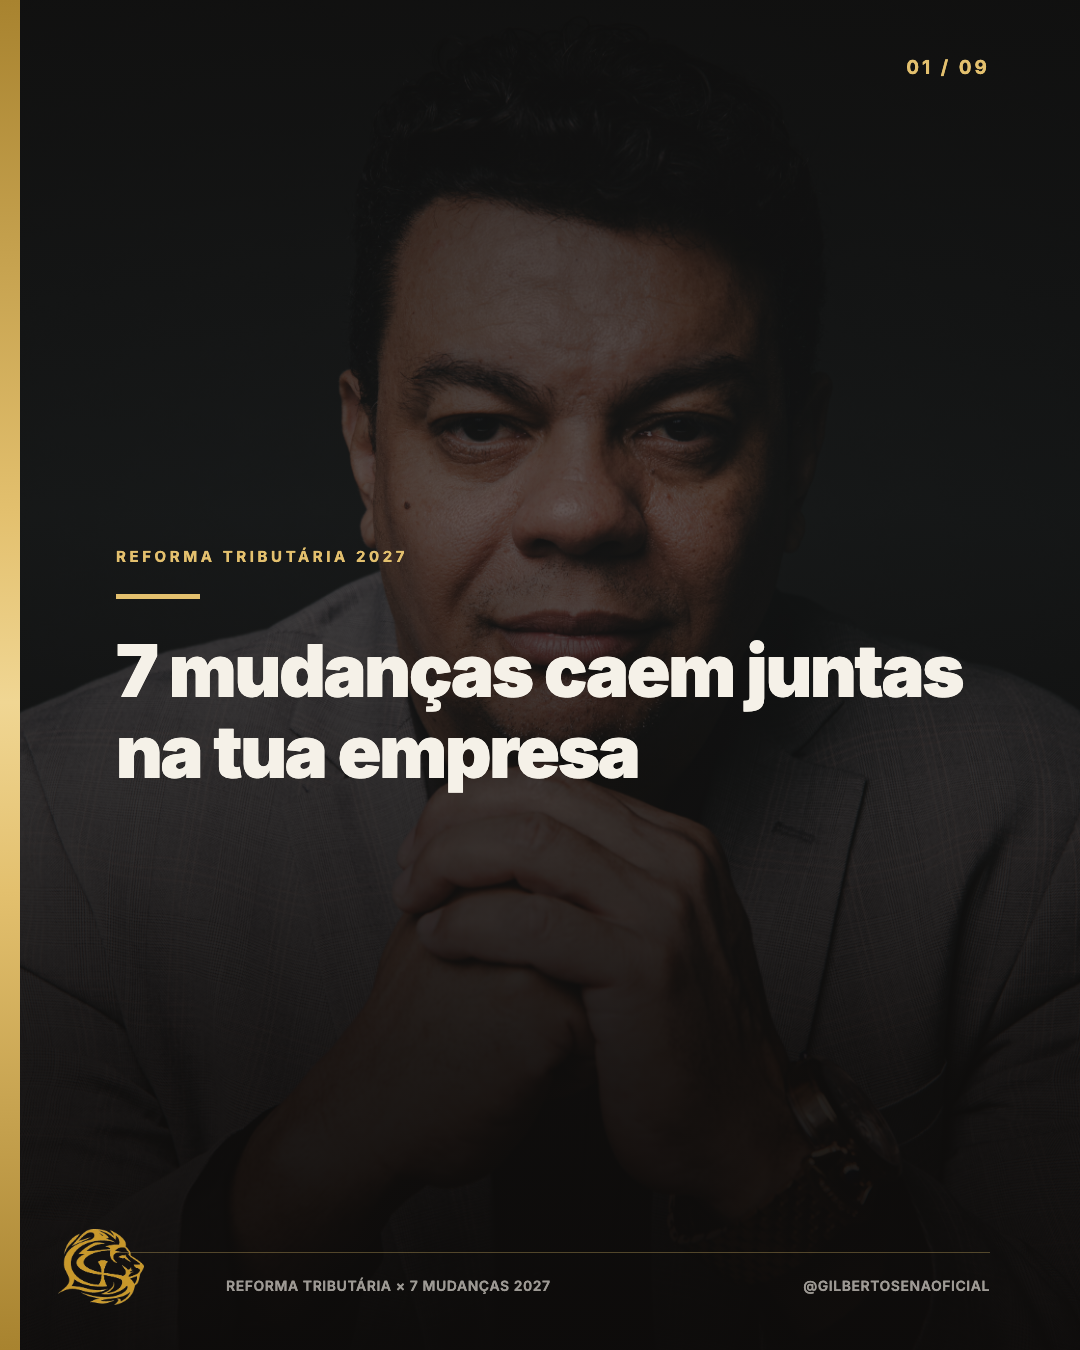
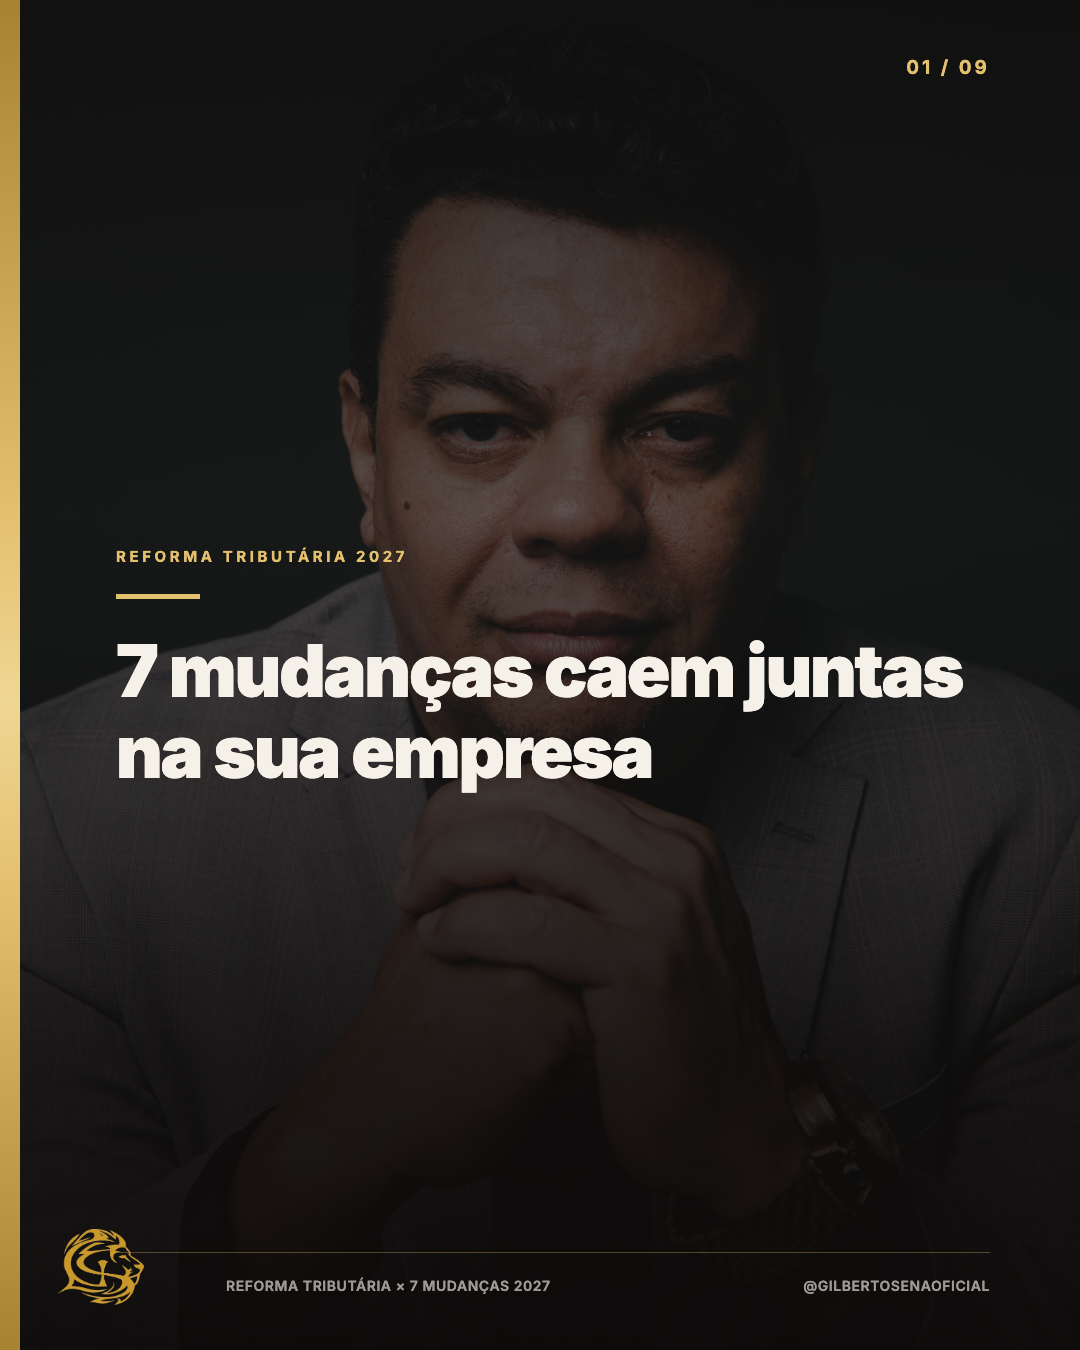
Reels pras 18h, plano de 2 carrosseis por dia e o primeiro agendado

Changed region(s): [[0.1833, 0.5289, 0.6111, 0.5911]]

diff --git a/saidas/CARROSSEIS/carrossel-7-mudancas-2027-2026-08-31/carrossel.html b/saidas/CARROSSEIS/carrossel-7-mudancas-2027-2026-08-31/carrossel.html
@@ -140,7 +140,7 @@
   </div>
   <div class="kicker">REFORMA TRIBUTÁRIA 2027</div>
   <div class="rule"></div>
-  <div class="capa-title">7 mudanças caem juntas na tua empresa</div>
+  <div class="capa-title">7 mudanças caem juntas na sua empresa</div>
   <div class="footer"><span>REFORMA TRIBUTÁRIA × 7 MUDANÇAS 2027</span><span>@GILBERTOSENAOFICIAL</span></div>
 </div>
 

diff --git a/saidas/CARROSSEIS/_PLANO-DA-FILA.md b/saidas/CARROSSEIS/_PLANO-DA-FILA.md
@@ -1,21 +1,33 @@
-# Plano: os carrosséis na fila
+# Os 42 carrosséis na fila
 
-Três por dia no Instagram, às **7h, 15h e 18h** (Brasília), somando seis com
-o card das 9h e os dois reels de 12h e 20h. De 16 a 29 de outubro.
+Dois por dia no Instagram, **15h e 20h** (Brasília). De 16/10 a 05/11.
+Completa o dia de seis: 5h Provérbios, 9h frase, 12h reels, 15h carrossel,
+18h reels, 20h carrossel.
 
-| Dia | 7h · reforma | 15h · gestão | 18h · setor |
-|---|---|---|---|
-| 16/10 | 7-mudancas-2027-2026-08-31 | quem-e-gilberto-2026-10-06 | medicos-reforma-2026-08-27 |
-| 17/10 | simples-hibrido-2026-08-27 | dre-7-passos-2026-09-29 | transportadoras-reforma-2026-08-27 |
-| 18/10 | ipi-imposto-seletivo-2026-08-27 | ponto-de-equilibrio-2026-08-02 | comercio-reforma-2026-08-27 |
-| 19/10 | pf-autonomo-cbs-2026-08-27 | 12-pilares-business-plan-2026-08-03 | servicos-alerta-2026-08-27 |
-| 20/10 | simples-nacional-prazo-2026-09-22 | 5gs-gestao-financeira-2026-07-17 | odontologia-reforma-2026-08-27 |
-| 21/10 | redutor-ajuste-construcao-2026-08-30 | 5gs-gestao-tributaria-2026-07-17 | ecommerce-alerta-2026-08-27 |
-| 22/10 | imobiliario-aluguel-2026-08-30 | 5gs-gestao-de-si-2026-07-17 extraido | clinicas-esteticas-reforma-2026-08-27 |
-| 23/10 | revenda-carros-stj-2026-08-27 | 5gs-fornecedores-clientes-2026-10-06 | industria-reforma-2026-08-30 |
-| 24/10 | reforma-ebooks-2026-09-13 | 10-pergaminhos-maior-vendedor-2026-08-03 | textil-alerta-2026-08-27 |
-| 25/10 | dissolucao-sociedade-2026-08-10 | rede-de-mastermind-2026-08-09 | biomedicina-reforma-2026-08-27 |
-| 26/10 | reforma-infoprodutores-2026-09-13 | forjado-imersao-2026-08-07 | entregadores-app-reforma-2026-08-27 |
-| 27/10 | reforma-representante-comercial-2026-09-13 | 10-ebooks-leitura-2026-09-06 | tecnologia-saas-reforma-2026-08-30 |
-| 28/10 | reforma-ecommerce-2026-09-13 | agronegocio-reforma-2026-08-30 | saude-geral-reforma-2026-08-27 |
-| 29/10 | reforma-medicos-2026-09-13 | educacao-reforma-2026-08-30 | transportes-reforma-2026-08-27 |
+| Dia | 15h | 20h |
+|---|---|---|
+| 16/10 | 7-mudancas-2027-2026-08-31 | quem-e-gilberto-2026-10-06 |
+| 17/10 | simples-nacional-prazo-2026-09-22 | dre-7-passos-2026-09-29 |
+| 18/10 | simples-hibrido-2026-08-27 | ponto-de-equilibrio-2026-08-02 |
+| 19/10 | ipi-imposto-seletivo-2026-08-27 | 12-pilares-business-plan-2026-08-03 |
+| 20/10 | pf-autonomo-cbs-2026-08-27 | 5gs-gestao-financeira-2026-07-17 |
+| 21/10 | imobiliario-aluguel-2026-08-30 | 5gs-gestao-tributaria-2026-07-17 |
+| 22/10 | redutor-ajuste-construcao-2026-08-30 | 5gs-gestao-de-si-2026-07-17 extraido |
+| 23/10 | revenda-carros-stj-2026-08-27 | 5gs-fornecedores-clientes-2026-10-06 |
+| 24/10 | reforma-ebooks-2026-09-13 | 10-pergaminhos-maior-vendedor-2026-08-03 |
+| 25/10 | reforma-infoprodutores-2026-09-13 | rede-de-mastermind-2026-08-09 |
+| 26/10 | reforma-ecommerce-2026-09-13 | forjado-imersao-2026-08-07 |
+| 27/10 | reforma-representante-comercial-2026-09-13 | dissolucao-sociedade-2026-08-10 |
+| 28/10 | reforma-medicos-2026-09-13 | agronegocio-reforma-2026-08-30 |
+| 29/10 | medicos-reforma-2026-08-27 | educacao-reforma-2026-08-30 |
+| 30/10 | transportadoras-reforma-2026-08-27 | textil-alerta-2026-08-27 |
+| 31/10 | comercio-reforma-2026-08-27 | biomedicina-reforma-2026-08-27 |
+| 01/11 | servicos-alerta-2026-08-27 | entregadores-app-reforma-2026-08-27 |
+| 02/11 | odontologia-reforma-2026-08-27 | tecnologia-saas-reforma-2026-08-30 |
+| 03/11 | ecommerce-alerta-2026-08-27 | saude-geral-reforma-2026-08-27 |
+| 04/11 | clinicas-esteticas-reforma-2026-08-27 | transportes-reforma-2026-08-27 |
+| 05/11 | industria-reforma-2026-08-30 | 10-ebooks-leitura-2026-09-06 |
+
+⚠ `10-ebooks-leitura` tem **12 lâminas** e o Instagram aceita 10. Está em
+último de propósito, esperando ele decidir se corta duas ou vira dois posts.
+

diff --git a/saidas/CARROSSEIS/carrossel-7-mudancas-2027-2026-08-31/legenda.md b/saidas/CARROSSEIS/carrossel-7-mudancas-2027-2026-08-31/legenda.md
@@ -1,4 +1,4 @@
-Em 2027 não cai um imposto novo em cima da tua empresa. Cai o sistema inteiro, trocando de lugar, em sete frentes ao mesmo tempo.
+Em 2027 não cai um imposto novo em cima da sua empresa. Cai o sistema inteiro, trocando de lugar, em sete frentes ao mesmo tempo.
 
 1. CBS substitui PIS e Cofins, 1º de janeiro de 2027. Alíquota de referência de 26,5%, mas já tem conta revisada beirando 28%.
 
